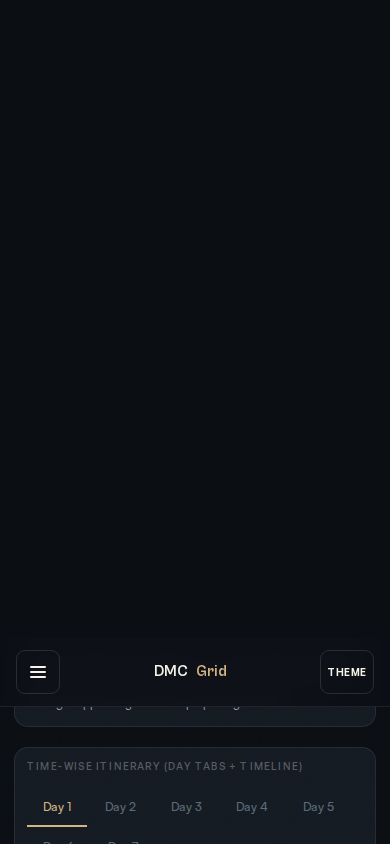
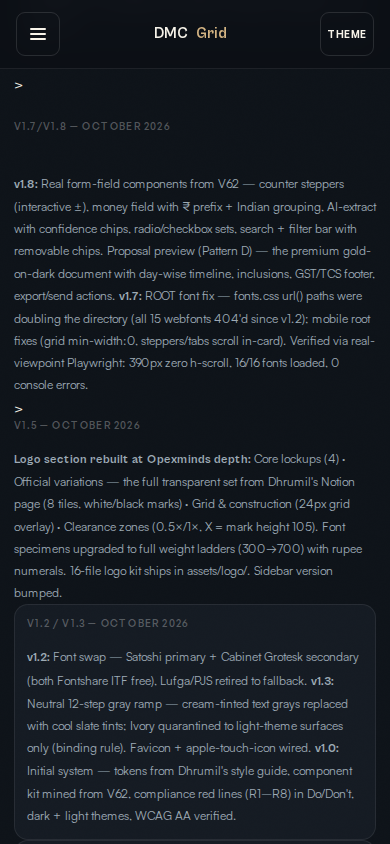
fix(E03): changelog HTML — 2 malformed demo tags + 2 stray > text nodes repaired (render-verified: 0 stray, 6 demos, 0 errors)

diff --git a/design/dmcgrid-brand-system.html b/design/dmcgrid-brand-system.html
@@ -1347,19 +1347,19 @@ table.dt td.num,table.dt th.num{text-align:right;font-family:var(--font-m);font-
       <h2>Changelog</h2>
     </div>
     <div class="grid2">
-      <div class="demo"<div class="demo">
+      <div class="demo">
         <div class="demo-title">v1.6 — October 2026</div>
         <p class="copy"><b>Component Library section added (08b):</b> every product surface from the V62 prototype rebuilt as real rendered components — interactive 6-step wizard stepper, compare matrix (3 anonymous quotes), 3-option quote cards, deal sheet with the binding cost formula, RFQ feed rows with match scores, credit wallet + plans, day-wise itinerary timeline, payment methods, verification upload. Toast system live. Wizard + tabs interactive. All components theme-aware, mobile-safe (steppers and tables scroll inside their cards, never the page). Responsive overhaul: 5 breakpoints (1024/768/640/480 + desktop), zero horizontal page scroll, button contrast fixed (gold fill both themes, dark text 8.1:1), theme persistence + FOUC guard.</p>
       </div>
-      <div class="demo"<div class="demo">
+      <div class="demo">
         <div class="demo-title">v1.9 — October 2026</div>
         <p class="copy"><b>Mobile navigation added:</b> fixed top bar (hamburger + brand + theme toggle, blurred backdrop, 44px targets) + slide-in drawer with all 20 sections grouped Brand/Foundation/Product. Drawer closes on link tap and backdrop tap; aria-expanded + aria-label wired. Verified via Playwright at 390px: bar visible, drawer slides (translateX 0), link tap navigates + closes, zero horizontal scroll maintained. The sidebar is no longer "missing" on mobile — it's replaced.</p>
       </div>
-      >
+      <div class="demo">
         <div class="demo-title">v1.7/v1.8 — October 2026</div>
         <p class="copy"><b>v1.8:</b> Real form-field components from V62 — counter steppers (interactive ±), money field with ₹ prefix + Indian grouping, AI-extract with confidence chips, radio/checkbox sets, search + filter bar with removable chips. Proposal preview (Pattern D) — the premium gold-on-dark document with day-wise timeline, inclusions, GST/TCS footer, export/send actions. <b>v1.7:</b> ROOT font fix — fonts.css url() paths were doubling the directory (all 15 webfonts 404'd since v1.2); mobile root fixes (grid min-width:0, steppers/tabs scroll in-card). Verified via real-viewpoint Playwright: 390px zero h-scroll, 16/16 fonts loaded, 0 console errors.</p>
       </div>
-      >
+      <div class="demo">
         <div class="demo-title">v1.5 — October 2026</div>
         <p class="copy"><b>Logo section rebuilt at Opexminds depth:</b> Core lockups (4) · Official variations — the full transparent set from Dhrumil's Notion page (8 tiles, white/black marks) · Grid & construction (24px grid overlay) · Clearance zones (0.5×/1×, X = mark height 105). Font specimens upgraded to full weight ladders (300→700) with rupee numerals. 16-file logo kit ships in assets/logo/. Sidebar version bumped.</p>
       </div>
